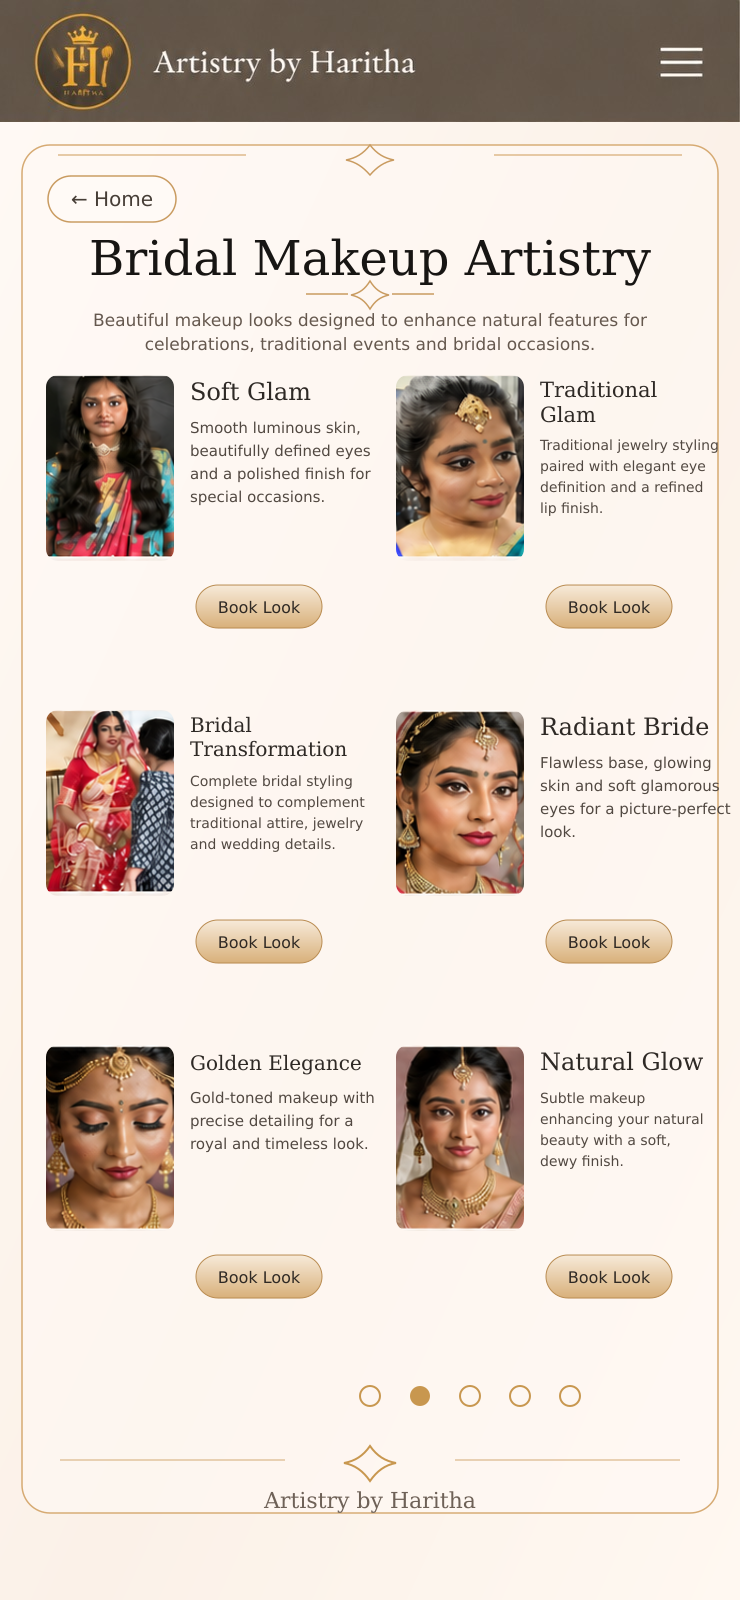
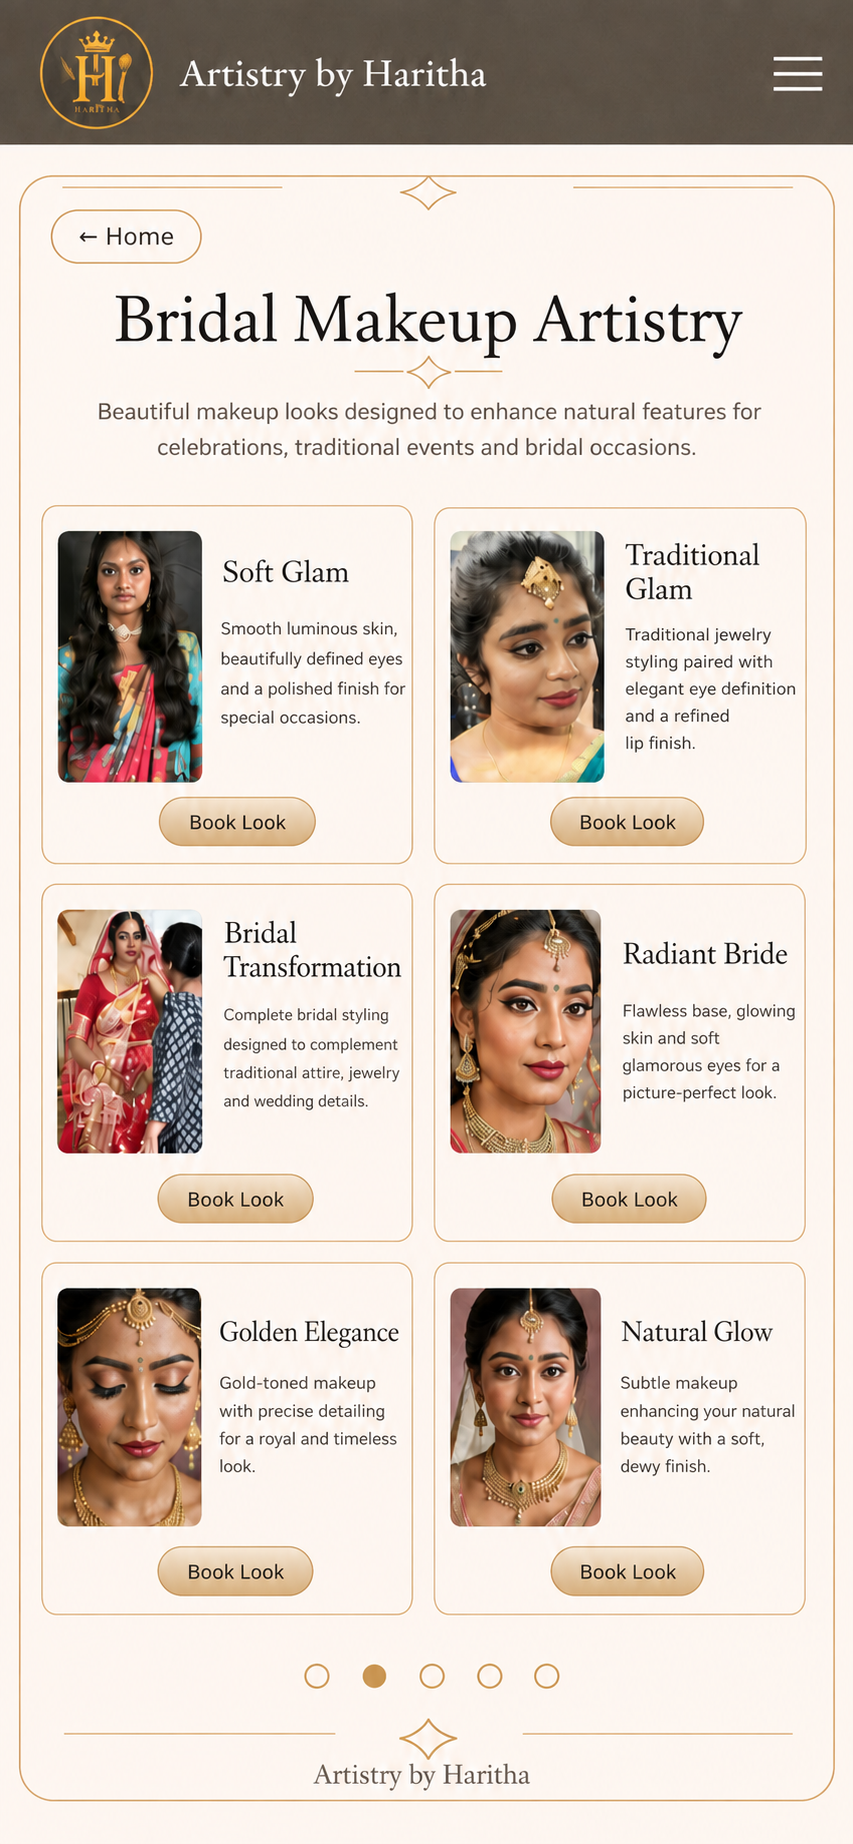
Add files via upload

diff --git a/index.html b/index.html
@@ -99,6 +99,7 @@
 
     .mobile-hotspot,
     .mobile-whatsapp-call,
+    .mobile-whatsapp-slide,
     .mobile-menu {
       display: none;
     }
@@ -662,19 +663,25 @@
       .mobile-whatsapp-call {
         position: absolute;
         z-index: 30;
-        left: 31%;
-        top: 56.8%;
-        width: 38%;
-        height: 3.4%;
+        left: 27%;
+        top: 56.45%;
+        width: 46%;
+        height: 4%;
         display: flex;
         align-items: center;
         justify-content: center;
-        gap: clamp(7px, 1.8vw, 12px);
+        gap: clamp(8px, 2vw, 13px);
         border-radius: 8px;
-        background: #f8f0e8;
+        background: radial-gradient(
+          ellipse at center,
+          rgba(250, 244, 237, .99) 0%,
+          rgba(250, 244, 237, .97) 58%,
+          rgba(250, 244, 237, .72) 76%,
+          rgba(250, 244, 237, 0) 100%
+        );
         color: #241f1b;
-        font-size: clamp(12px, 3.1vw, 19px);
-        font-weight: 600;
+        font-size: clamp(15px, 3.8vw, 23px);
+        font-weight: 700;
         letter-spacing: .015em;
         line-height: 1;
         text-decoration: none;
@@ -684,27 +691,45 @@
       }
 
       .mobile-whatsapp-icon {
-        width: clamp(19px, 4.8vw, 30px);
-        aspect-ratio: 1;
+        width: clamp(27px, 6.6vw, 42px);
         display: inline-flex;
         align-items: center;
         justify-content: center;
         flex: 0 0 auto;
-        border-radius: 50%;
-        background: #6e6157;
-        color: #fffaf5;
-        font-size: clamp(12px, 3vw, 18px);
-        font-weight: 400;
-        box-shadow: 0 2px 5px rgba(72, 57, 47, .22);
       }
 
       .mobile-whatsapp-icon svg {
-        width: 72%;
-        height: 72%;
+        width: 100%;
+        height: auto;
         display: block;
       }
 
-      .mobile-whatsapp-call:active {
+      .mobile-whatsapp-slide {
+        position: absolute;
+        z-index: 30;
+        top: 10.45%;
+        right: 5.8%;
+        width: 8.5%;
+        aspect-ratio: 1;
+        display: flex;
+        align-items: center;
+        justify-content: center;
+        background: transparent;
+        border: 0;
+        text-decoration: none;
+        -webkit-tap-highlight-color: transparent;
+        touch-action: manipulation;
+      }
+
+      .mobile-whatsapp-slide svg {
+        width: 100%;
+        height: auto;
+        display: block;
+        filter: drop-shadow(0 2px 3px rgba(52, 42, 34, .18));
+      }
+
+      .mobile-whatsapp-call:active,
+      .mobile-whatsapp-slide:active {
         transform: scale(.97);
       }
 
@@ -1133,17 +1158,32 @@
     let touchStartX = 0;
     let touchStartY = 0;
 
+    const whatsappUrl = 'https://wa.me/16147078179?text=Hello%20Haritha%2C%20I%20would%20like%20to%20book%20an%20appointment.';
[1 lines of base64/hex data omitted]
+
+    /* Transparent WhatsApp mark: no colored square or background box. */
+    const whatsappIconMarkup = `
+      <svg viewBox="0 0 32 32" role="img" aria-hidden="true" focusable="false">
+        <path fill="#25D366" d="M16 3A13 13 0 0 0 4.8 22.6L3 29l6.6-1.7A13 13 0 1 0 16 3Zm0 23.5c-2.1 0-4.2-.6-6-1.8l-.4-.2-3.9 1 1.1-3.8-.3-.4A10.5 10.5 0 1 1 16 26.5Z"/>
+        <path fill="#25D366" d="M22.2 18.8c-.3-.2-1.9-.9-2.2-1-.3-.1-.5-.2-.7.2-.2.3-.8 1-1 1.2-.2.2-.4.2-.7.1-2-.9-3.4-2.1-4.5-4-.3-.5.3-.5.9-1.7.1-.2 0-.5-.1-.7l-1-2.4c-.3-.7-.6-.6-.9-.6h-.8c-.3 0-.7.1-1.1.5-.4.4-1.4 1.4-1.4 3.4s1.5 4 1.7 4.3c.2.3 2.9 4.5 7.1 6.2 2.6 1.1 3.6 1.2 4.9 1 1.5-.2 4.5-1.8 5.1-3.6.6-1.8.6-3.3.4-3.6-.3-.3-.6-.4-1-.6Z"/>
+      </svg>`;
+
     /* Mobile-only contact shown above the Home page Services button. */
     document.querySelector('.home-artwork').insertAdjacentHTML('beforeend', `
-      <a class="mobile-whatsapp-call" href="https://wa.me/16147078179?text=Hello%20Haritha%2C%20I%20would%20like%20to%20book%20an%20appointment." target="_blank" rel="noopener" aria-label="Contact Haritha on WhatsApp at 614 707 8179">
+      <a class="mobile-whatsapp-call" href="${whatsappUrl}" target="_blank" rel="noopener" aria-label="Contact Haritha on WhatsApp at 614 707 8179">
         <span class="mobile-whatsapp-icon" aria-hidden="true">
-          <svg viewBox="0 0 24 24" focusable="false">
-            <path d="M12 3a8 8 0 0 0-6.9 12L4 20l5-1.1A8 8 0 1 0 12 3Z" fill="none" stroke="currentColor" stroke-width="1.8" stroke-linecap="round" stroke-linejoin="round"/>
-            <path d="M8.5 8.1c.35-.27.7-.14.9.25l.75 1.55c.13.28.08.53-.12.75l-.62.67c.7 1.45 1.83 2.58 3.28 3.28l.67-.62c.22-.2.47-.25.75-.12l1.55.75c.39.2.52.55.25.9-.46.66-1.22 1.06-2.03 1-3.55-.28-6.4-3.13-6.68-6.68-.06-.81.34-1.57 1-2.03Z" fill="currentColor"/>
-          </svg>
+          ${whatsappIconMarkup}
         </span>
         <span>614 707 8179</span>
       </a>`);
+
+    /* Keep WhatsApp one tap away on every mobile slide after Home. */
+    document.querySelectorAll('.artwork-canvas:not(.home-artwork)').forEach((canvas) => {
+      canvas.insertAdjacentHTML('beforeend', `
+        <a class="mobile-whatsapp-slide" href="${whatsappUrl}" target="_blank" rel="noopener" aria-label="Contact Haritha on WhatsApp">
+          ${whatsappIconMarkup}
+        </a>`);
+    });
 
     /* The Follow Us labels are printed inside each image. These precise
        hotspots restore both the hover effect and the actual social links. */
